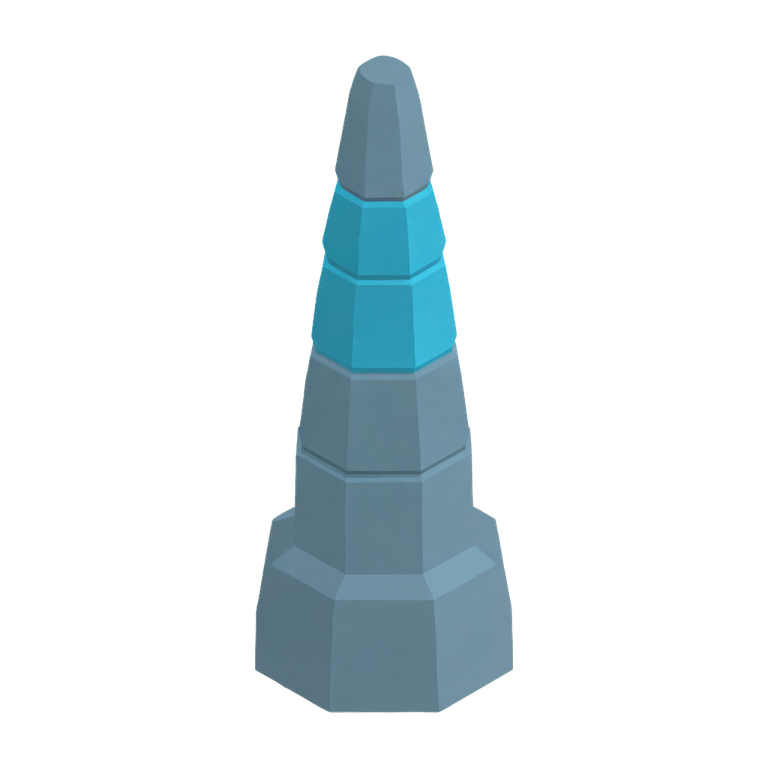
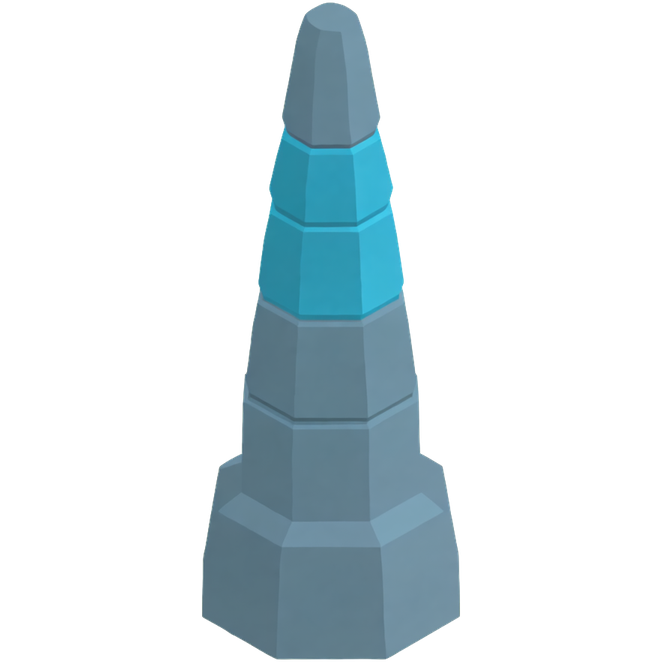
units: crop the sprite properly, and a tool so the next one is not hand-cropped
"Trim to all edges" is wrong here in two ways, and the shipped arrow tower had
the third problem already.

SpriteUnitView makes the quad a square of side frameCells and lifts it so the
frame's BOTTOM EDGE meets the ground at the cell centre. So frames must stay
square -- frame count is width/height, and a strip trimmed to content is re-read
as a different number of frames, with 262x662 parsing as zero frames. The subject
must stay horizontally centred, because the frame's centre line is the cell
centre and trimming an asymmetric subject to its own bounds walks it off the
tile. And the base must touch the bottom edge: empty pixels below it are float.

The arrow tower arrived 768x768 with 53px of empty space under its base and had
been hovering 0.11 cells above the board since it landed. Now 662x662, seated,
frameCells 1.57 -> 1.353 so the on-screen size is unchanged.

fit-sprite.sh does this for any unit folder and prints the frameCells factor
without editing unit.json, because keeping the size is usually right but is an
art decision. Idempotent: re-running is byte-identical and reports "already
seated". It takes the crop box as the union across every frame of every clip in
the folder, never per frame or per file -- per frame pins the subject and the
animation jitters, per file makes the unit change size when it fires. That is
also why it takes a directory rather than a file.

Five baselines re-recorded, each captured twice and installed only once the pair
[…]

diff --git a/presentation/units/README.md b/presentation/units/README.md
@@ -2,8 +2,10 @@
 
 Final tower and creep art. **`arrow-tower` is real; everything else is still a placeholder.**
 
-The first shipped asset is a single-frame WebP idle sprite, `arrow-tower/idle.webp` — 768×768, one
-frame, `frameCells` 1.57. It is the reason five committed baselines were re-recorded on 2026-08-08.
+The first shipped asset is a single-frame WebP idle sprite, `arrow-tower/idle.webp` — 662×662, one
+frame, `frameCells` 1.353. It is the reason five committed baselines were re-recorded on 2026-08-08.
+It arrived 768×768 with 53px of empty space under the base, which is why it hovered until it was run
+through [`fit-sprite.sh`](#cropping-do-not-trim-to-all-edges).
 
 Its alpha is **not** hard-edged — 0.71% of pixels sit at partial alpha, a one-pixel anti-aliased
 fringe. That is survivable *here* because `SpriteUnitView` hardcodes `AlphaScissor` at 0.5 rather than
@@ -48,6 +50,41 @@ and hand back to `idle`.
 **The folder name must match a content id.** `arrow_tower` or `arrowtower` matches nothing, resolves
 to nothing, and the game quietly keeps drawing the placeholder — no error, because nothing is wrong
 as far as the loader is concerned. `UnitAssetTests` fails the build instead.
+
+## Cropping: do not "trim to all edges"
+
+Run the tool instead. It is in-place, so commit first or pass `--dry-run`:
+
+```bash
+./fit-sprite.sh presentation/units/arrow-tower --dry-run   # reports, writes nothing
+./fit-sprite.sh presentation/units/arrow-tower             # crops every clip in the folder
+```
+
+It prints the factor to multiply `frameCells` by. It deliberately does **not** edit `unit.json` —
+keeping the on-screen size is usually right, but it is an art decision and the tool only knows how to
+leave it where it was.
+
+### Why the obvious crop is wrong
+
+`SpriteUnitView` makes the quad a **square of side `frameCells`** and lifts it so the frame's **bottom
+edge sits on the ground** at the cell centre. Three rules follow:
+
+| Rule | What breaks if you ignore it |
+|---|---|
+| Frames stay **square** | Frame count is `width / height`. A strip trimmed to content is re-read as a different number of frames — 262×662 is not a tall sprite, it is a zero-frame one. |
+| Subject **horizontally centred** | The frame's centre line is the cell centre. Trimming an asymmetric subject to its own bounds walks it off the tile. |
+| Base **flush to the bottom edge** | Empty pixels below the base are float: the unit hovers `gap / side × frameCells` cells above the board. The shipped arrow tower had 53px of it and hovered 0.11 cells. |
+
+So the manual recipe, if you are doing it in Photoshop rather than with the tool: **trim to the
+silhouette, then re-pad to a square canvas, subject centred horizontally, base flush to the bottom.**
+Trim-to-all-edges alone gets the first two wrong.
+
+### The one that only shows up in motion
+
+The crop box must be computed **once across every frame of every clip in the folder** — never per
+frame, never per file. Per frame pins the subject in place and the animation jitters; per file makes
+the unit change size when it fires. `fit-sprite.sh` takes the union across the whole folder for
+exactly this reason, which is also why you point it at a **unit directory**, not at a file.
 
 ## Sprites: two things that are not obvious
 

diff --git a/docs/tech-standards.md b/docs/tech-standards.md
@@ -103,6 +103,7 @@ dotnet run --project Gridfall.Verify -- perf    # tick cost vs the 8ms budget
 ./run-game.sh --shot /tmp/x.png --shot-after 40 # byte-reproducible capture
 ./run-game.sh --shot /tmp/x.png --shot-seed sappers --shot-after 40   # a named board state
 ./run-game.sh --headless --quit                 # scene/resource wiring check
+./fit-sprite.sh presentation/units/<id> --dry-run   # sprite crop check; drop --dry-run to apply
 ```
 
 The mode is a bare word, not a flag — `-- balance`, never `-- --balance`.
